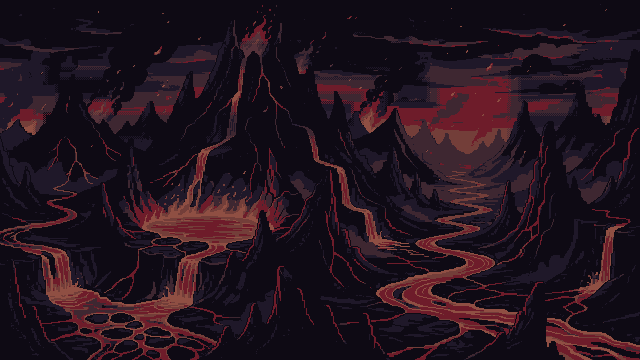
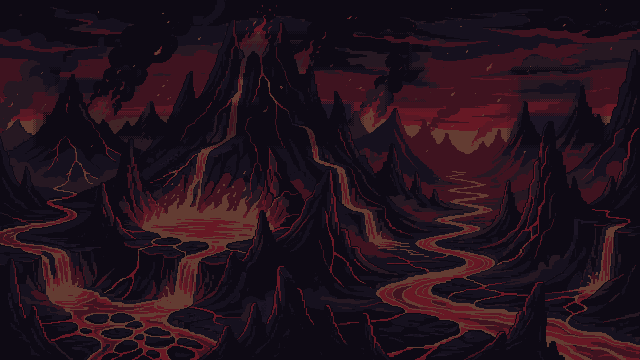
Sins menu theme: uniform bg (no baked dark patches at old text spots), see-through 55% panel/plate interiors, plates >=7px clear of arch, outlined header text

diff --git a/Assets/Hellord/Scripts/Runtime/HellordMenuTheme.cs b/Assets/Hellord/Scripts/Runtime/HellordMenuTheme.cs
@@ -69,9 +69,9 @@ namespace Hellord
         }
         /// <summary>true when every character of s (after Sanitize) has a glyph of its own (no '?' substitution).</summary>
         public static bool MtCovered(string s, bool disp) { var d = disp ? MenuThemeData.Disp : MenuThemeData.Small; foreach (char c in s) if (c != ' ' && !d.ContainsKey(c)) return false; return true; }
-        Texture2D MtTextTex(string s, bool disp, Color32[] rows, bool shadow, string key)
+        Texture2D MtTextTex(string s, bool disp, Color32[] rows, bool shadow, string key, bool outline = false)
         {
-            string k = (disp ? "D|" : "S|") + key + (shadow ? "|sh|" : "|") + s; if (_mtTxt.TryGetValue(k, out var tx) && tx) return tx;
+            string k = (disp ? "D|" : "S|") + key + (shadow ? "|sh|" : "|") + (outline ? "ol|" : "") + s; if (_mtTxt.TryGetValue(k, out var tx) && tx) return tx;
             if (_mtTxt.Count > 900) { foreach (var v in _mtTxt.Values) if (v) Destroy(v); _mtTxt.Clear(); }
             int gh = disp ? 9 : 7, space = disp ? 4 : 3, w = MtW(s, disp), W = w + 2, H = gh + 2; var px = new Color32[W * H]; var deep = MtC("DEEP"); int cx = 0, n = 0;
             void P(int x, int y, Color32 c) { if (x < 0 || y < 0 || x >= W || y >= H) return; px[(H - 1 - y) * W + x] = c; }
@@ -85,7 +85,7 @@ namespace Hellord
                     for (int j = 0; j < g.Length; j++) for (int i = 0; i < g[j].Length; i++)
                     {
                         if (g[j][i] != '#') continue;
-                        if (pass == 0) { if (disp) { for (int dx = -1; dx <= 1; dx++) for (int dy = -1; dy <= 1; dy++) P(1 + cx + i + dx, 1 + j + dy, deep); } else if (shadow) P(1 + cx + i + 1, 1 + j + 1, deep); }
+                        if (pass == 0) { if (disp) { for (int dx = -1; dx <= 1; dx++) for (int dy = -1; dy <= 1; dy++) P(1 + cx + i + dx, 1 + j + dy, deep); } else if (outline) { for (int dx = -1; dx <= 1; dx++) for (int dy = -1; dy <= 1; dy++) P(1 + cx + i + dx, 1 + j + dy, deep); } else if (shadow) P(1 + cx + i + 1, 1 + j + 1, deep); }
                         else P(1 + cx + i, 1 + j, rows[Mathf.Min(j, rows.Length - 1)]);
                     }
                     cx += gw;
@@ -95,8 +95,8 @@ namespace Hellord
         }
         void MtDrawTex(Texture2D t, int x, int y) { if (!_mtRep) return; MtBlit(t, 0, 0, t.width, t.height, x - 1, y - 1); }
         /// <summary>SMALL 5x7 glyphs (palette colour name), optional 1 px DEEP drop shadow; (x,y) = top-left of the glyph box.</summary>
-        void MtTx(string s, int x, int y, string col, bool shadow = false) { if (s.Length == 0) return; s = Sanitize(s); MtDrawTex(MtTextTex(s, false, new[] { MtC(col) }, shadow, col), x, y); }
-        void MtTxC(string s, int cx, int y, string col, bool shadow = false) { s = Sanitize(s); MtTx(s, cx - MtW(s, false) / 2, y, col, shadow); }
+        void MtTx(string s, int x, int y, string col, bool shadow = false, bool outline = false) { if (s.Length == 0) return; s = Sanitize(s); MtDrawTex(MtTextTex(s, false, new[] { MtC(col) }, shadow, col, outline), x, y); }
+        void MtTxC(string s, int cx, int y, string col, bool shadow = false, bool outline = false) { s = Sanitize(s); MtTx(s, cx - MtW(s, false) / 2, y, col, shadow, outline); }
         void MtDisp(string s, int x, int y, Color32[] rows, string key) { if (s.Length == 0) return; s = Sanitize(s); MtDrawTex(MtTextTex(s, true, rows, false, key), x, y); }
         // ---------------------------------------------------------------- input (native 640x360 coordinates)
         Vector2 MtMouse() { var m = Event.current.mousePosition; return new Vector2((m.x - _mtOx) / _mtS, (m.y - _mtOy) / _mtS); }
@@ -172,7 +172,7 @@ namespace Hellord
                 MtFire(t);
             }
             // ---- three sin slots (niches 28x32 at x 256/306/356, y 74)
-            int[] nxs = { 256, 306, 356 }; const int NY = 60; /* t1356: was 74 */ string hdr = null; string hdrCol = "DIM";
+            int[] nxs = { 256, 306, 356 }; const int NY = 69; /* t1356: was 74 */ string hdr = null; string hdrCol = "DIM";
             for (int i = 0; i < 3; i++)
             {
                 int x = nxs[i]; bool unl = i < _sinSlots737 && i < SlotsMax737; string id = "slot" + i;
@@ -197,14 +197,14 @@ namespace Hellord
                 }
             }
             // ---- currency + slot/owned headers
-            // t1356: SOULS / SIGILS in framed counter plates either side of the title (plates are in mt_scene at x 140 and 408, y 40, 92x20)
-            { string so = "SOULS " + _souls51; int iw0 = MenuThemeData.Atlas["icon_soul"][2], tw0 = iw0 + 4 + MtW(so, false), x0 = 140 + (92 - tw0) / 2; MtSpr("icon_soul", x0, 46); MtTx(so, x0 + iw0 + 4, 47, "YELLOW"); }
-            { string sg = "SIGILS " + _sigils51; int iw = MenuThemeData.Atlas["icon_sigil"][2], tw1 = MtW(sg, false) + 4 + iw, x1 = 408 + (92 - tw1) / 2; MtTx(sg, x1, 47, "PINK"); MtSpr("icon_sigil", x1 + MtW(sg, false) + 4, 46); }
+            // t1356: SOULS / SIGILS in framed counter plates either side of the title (plates are in mt_scene at x 150 and 402, y 49, 88x18)
+            { string so = "SOULS " + _souls51; int iw0 = MenuThemeData.Atlas["icon_soul"][2], tw0 = iw0 + 4 + MtW(so, false), x0 = 150 + (88 - tw0) / 2; MtSpr("icon_soul", x0, 53); MtTx(so, x0 + iw0 + 4, 54, "YELLOW", false, true); }
+            { string sg = "SIGILS " + _sigils51; int iw = MenuThemeData.Atlas["icon_sigil"][2], tw1 = MtW(sg, false) + 4 + iw, x1 = 402 + (88 - tw1) / 2; MtTx(sg, x1, 54, "PINK", false, true); MtSpr("icon_sigil", x1 + MtW(sg, false) + 4, 53); }
             if (_mtMsg != null && MtClock() < _mtMsgUntil) { hdr = _mtMsg; hdrCol = _mtMsgCol; }
-            MtTxC(hdr ?? "SLOTS " + _sinSlots737 + "/" + SlotsMax737, 320, NY + 36, hdr != null ? hdrCol : "DIM");
-            { string ow = "OWNED " + SinOwnedCount737 + "/" + HSins.Count; MtTx(ow, 584 - MtW(ow, false), 108, "DIM"); }   // t1356: on the tabs row, right-aligned inside the right panel (was 588,122)
+            MtTxC(hdr ?? "SLOTS " + _sinSlots737 + "/" + SlotsMax737, 320, NY + 36, hdr != null ? hdrCol : "DIM", false, true);
+            { string ow = "OWNED " + SinOwnedCount737 + "/" + HSins.Count; MtTx(ow, 584 - MtW(ow, false), 117, "DIM", false, true); }   // t1356: on the tabs row, right-aligned inside the right panel (was 588,122)
             // ---- tabs
-            string[] fl = { "ALL", "MORTAL", "DEMONIC", "HEAVEN-DEFYING" }; int tx = 52, TY = 107;   // t1356: was 121
+            string[] fl = { "ALL", "MORTAL", "DEMONIC", "HEAVEN-DEFYING" }; int tx = 52, TY = 116;   // t1356: was 121
             for (int i = 0; i < 4; i++)
             {
                 int w = MtW(fl[i], true); bool sel = _sinFilter737 == i; string id = "tab" + i; bool over = !sel && MtOver(id, tx - 6, TY - 1, w + 12, 17);
@@ -223,7 +223,7 @@ namespace Hellord
             int pulse = Mathf.Clamp((int)((0.5f - 0.5f * Mathf.Cos(Mathf.Repeat(t / 2.4f, 1f) * 6.2831853f)) * 2.9999f), 0, 2); int hovShown = -1;
             for (int k = 0; k < per; k++)
             {
-                int x = 58 + (k % 8) * 30, y = 145 + (k / 8) * 30, li = _sinPage737 * per + k; var d = li < list.Count ? list[li] : null;
+                int x = 58 + (k % 8) * 30, y = 150 + (k / 8) * 30, li = _sinPage737 * per + k; var d = li < list.Count ? list[li] : null;
                 if (d == null) { MtSpr("cell_empty", x, y); continue; }
                 bool own = _sinOwned737[d.id], sel = _sinSel737 == d.id, eq = SinEquipped737(d.id), over = MtOver("cell" + k, x, y, 28, 28);
                 MtSpr(sel ? "cell_sel" + pulse : !own ? "cell_locked" : eq ? "cell_equipped" : "cell_normal", x, y);
@@ -262,7 +262,7 @@ namespace Hellord
         void MtDetail(int hovShown)
         {
             int sid = hovShown >= 0 ? hovShown : _sinSel737; if (sid != _mtShown) { _mtShown = sid; _mtPage = 0; }
-            const int IX = 337, IY = 147, DIVY = 183, EY = 269; /* t1356: IY/DIVY were 161/197 */ int pulse = Mathf.Clamp((int)((0.5f - 0.5f * Mathf.Cos(Mathf.Repeat(MtClock() / 2.4f, 1f) * 6.2831853f)) * 2.9999f), 0, 2);
+            const int IX = 337, IY = 156, DIVY = 192, EY = 269; /* t1356: IY/DIVY were 161/197 */ int pulse = Mathf.Clamp((int)((0.5f - 0.5f * Mathf.Cos(Mathf.Repeat(MtClock() / 2.4f, 1f) * 6.2831853f)) * 2.9999f), 0, 2);
             MtSpr("cell_sel" + pulse, IX, IY);
             string act = "SELECT SIN", status = null, statusCol = "BONE"; bool actOn = false; int actKind = 0, free = -1; _mtPages = 1;
             if (sid < 0) { MtDisp("SELECT A SIN", 373, IY, MT_NAME_DIM, "dim"); MtTx("FROM THE GRID", 373, IY + 13, "DIM"); }
@@ -275,7 +275,7 @@ namespace Hellord
                 foreach (var ln in name) { if (small) { MtTx(ln, 373, ny + 1, own ? (d.tier == SinTier.HeavenDefying ? "YELLOW" : d.tier == SinTier.Demonic ? "AMBER" : "BONE") : "DIM", true); ny += 9; } else { MtDisp(ln, 373, ny, ramp, own ? "t" + MtTierIdx(d) : "dim"); ny += 12; } }
                 MtTx(sub, 373, ny + 1, "DIM");
                 int pitch = rows.Count <= 4 ? 11 : 9, cap = rows.Count <= 4 ? 4 : 5; int capP = rows.Count > cap ? cap - 1 : cap; _mtPages = Mathf.Max(1, (rows.Count + capP - 1) / capP); _mtPage = Mathf.Clamp(_mtPage, 0, _mtPages - 1);
-                for (int i = 0; i < capP; i++) { int ri = _mtPage * capP + i; if (ri >= rows.Count) break; MtTx(rows[ri][0], IX, 194 + i * pitch, rows[ri][1]); }
+                for (int i = 0; i < capP; i++) { int ri = _mtPage * capP + i; if (ri >= rows.Count) break; MtTx(rows[ri][0], IX, 202 + i * pitch, rows[ri][1]); }
                 if (_mtPages > 1)
                 {
                     string pg = (_mtPage + 1) + "/" + _mtPages; MtTx(pg, 555 - MtW(pg, false) / 2, 246, "BONE");

diff --git a/tools/t1356/mt_scene1356.py b/tools/t1356/mt_scene1356.py
@@ -9,9 +9,9 @@ import eng2 as E
 import backdrop as B, scene5 as SCN, d2_ui as S, screen5 as SC
 import mt_static as MS
 OUT = '/workspace/Hellord/Assets/Hellord/Resources/HellordArt/MenuTheme/mt_scene.png'
-TITLE_Y = 44                      # was 50
-PLATE_W, PLATE_H = 92, 20; PLATE_L, PLATE_R = 140, 640 - 140 - 92; PLATE_Y = TITLE_Y - 4
-TY = 107                          # tabs row (was 121)
+TITLE_Y = 53                      # was 50
+PLATE_W, PLATE_H = 88, 18; PLATE_L, PLATE_R = 150, 640 - 150 - 88; PLATE_Y = 49   # >= 7 px clear of the arch curve (checked by arch_clearance.py), 10 px from the title
+TY = 116                          # tabs row (was 121)
 RAIL_Y = TY + 15
 PY = RAIL_Y + 6; PB = 312         # panel top (was 142) / bottom (unchanged)
 GH = PB - PY
@@ -31,9 +31,34 @@ def static_screen(key):
     ix = di[0] + 10; iy = di[1] + 10; sy = iy + SC.CELL + 8
     S.divider(cv, ix, sy, di[2] - 20)
     return cv, dict(gi=gi, di=di, divider=(ix, sy, di[2] - 20))
+TINT_A = 140     # 55 % black
+def tint_interiors(rgba, seeds):
+    """Opaque dark panel/plate interiors -> 55 % black (0,0,0,140): 4-connected flood from each seed over the interior dark colours (INK, N1, N2 and the DEEP specks);
+    a DEEP pixel is only converted when none of its 8 neighbours is a bright / frame colour, so frame lines and the divider stay."""
+    from collections import deque
+    H, W = rgba.shape[:2]; dark = {(24, 20, 37), (31, 24, 41), (42, 32, 51)}; deep = (14, 10, 20)
+    col = lambda y, x: tuple(int(v) for v in rgba[y, x, :3])
+    def isdark(y, x): return rgba[y, x, 3] == 255 and col(y, x) in dark
+    def conv(y, x): return isdark(y, x) or (rgba[y, x, 3] == 255 and col(y, x) == deep and all(0 <= y + dy < H and 0 <= x + dx < W and (isdark(y + dy, x + dx) or col(y + dy, x + dx) == deep or rgba[y + dy, x + dx, 3] == 0) for dy in (-1, 0, 1) for dx in (-1, 0, 1)))
+    seen = np.zeros((H, W), bool); q = deque(); n = 0
+    for (x, y) in seeds:
+        if isdark(y, x): q.append((y, x)); seen[y, x] = True
+    keep = []
+    while q:
+        y, x = q.popleft(); keep.append((y, x))
+        for dy, dx in ((1, 0), (-1, 0), (0, 1), (0, -1)):
+            yy, xx = y + dy, x + dx
+            if 0 <= yy < H and 0 <= xx < W and not seen[yy, xx] and (isdark(yy, xx) or col(yy, xx) == deep):
+                seen[yy, xx] = True; q.append((yy, xx))
+    for (y, x) in keep:
+        if conv(y, x): rgba[y, x] = (0, 0, 0, TINT_A); n += 1
+    return n
 def build():
     a, info = static_screen(MS.KEYA); b, _ = static_screen(MS.KEYB)
     diff = (a.a != b.a).any(axis=2); rgba = np.zeros((360, 640, 4), np.uint8); rgba[..., :3] = a.a; rgba[..., 3] = np.where(diff, 0, 255); rgba[diff, :3] = 0
+    seeds = [(info['gi'][0] + info['gi'][2] // 2, info['gi'][1] + 20), (info['di'][0] + info['di'][2] // 2, info['di'][1] + 100), (info['di'][0] + 20, info['di'][1] + 100),
+             (PLATE_L + PLATE_W // 2, PLATE_Y + 10), (PLATE_R + PLATE_W // 2, PLATE_Y + 10)]
+    print('tinted px', tint_interiors(rgba, seeds))
     return rgba, info
 if __name__ == '__main__':
     rgba, info = build(); print(info, 'PY', PY, 'GH', GH)

diff --git a/tools/t1356/mt_bg1356.py b/tools/t1356/mt_bg1356.py
@@ -1,0 +1,11 @@
+"""t1356: uniform dim of the approved v5 bg1 lava for the menu-theme Sins screen, at the same brightness as the Pacts screen background (mean ~ pm_bg).
+The old v6 'dimB' background had dark zones baked around the OLD text positions (bgproc5 zones), which showed as black patches once the text moved.
+c' = DEEP + 0.5 * (c - DEEP) per colour, no zones, no snap (10 source colours stay 10 colours). Writes MenuTheme/mt_bg.png only."""
+import numpy as np
+from PIL import Image
+raw = np.array(Image.open('/workspace/Hellord/Art/previews/t1287_redraw/D2_MORTA_v5/background/V5_bg1_lava_processed_640x360_AI_BG_MOCKUP_NOT_RUNTIME.png').convert('RGB')).astype(float)
+B = np.array([14, 10, 20.]); out = np.clip(np.rint(B + 0.5 * (raw - B)), 0, 255).astype(np.uint8)
+for o in ('/workspace/HellordRepo', '/workspace/Hellord', '/workspace/HellordProject'):
+    Image.fromarray(out).save(o + '/Assets/Hellord/Resources/HellordArt/MenuTheme/mt_bg.png')
+print('mean', out.mean(), len(np.unique(out.reshape(-1, 3), axis=0)))
+Image.fromarray(out).resize((960, 540), 0).save('/tmp/mtbg_new2.png')

diff --git a/tools/t1356/arch_clearance.py b/tools/t1356/arch_clearance.py
@@ -1,0 +1,11 @@
+"""t1356 check (placement only): min distance from each Souls/Sigils plate to the arch / pillars / title, from mt_scene1356 geometry."""
+import sys; sys.dont_write_bytecode = True
+sys.path.insert(0, '/workspace/HellordRepo/tools/t1356')
+import mt_scene1356 as M, numpy as np
+from scipy import ndimage as ndi
+L, R = M.PLATE_L, M.PLATE_R; M.PLATE_L = M.PLATE_R = -300
+rgba, info = M.build(); mask = rgba[..., 3] == 255; mask[118:, 45:595] = False
+title = mask.copy(); mask[M.TITLE_Y - 3:M.TITLE_Y + 14, 240:400] = False
+d = ndi.distance_transform_edt(~mask)
+for nm, x in (('L', L), ('R', R)): print('plate', nm, 'clear of arch/pillars', d[M.PLATE_Y:M.PLATE_Y + M.PLATE_H, x:x + M.PLATE_W].min())
+print('gap to title: left', 320 - M.S.TITLE.width('INFERNAL SINS') // 2 - (L + M.PLATE_W), 'right', R - (320 + (M.S.TITLE.width('INFERNAL SINS') + 1) // 2))
